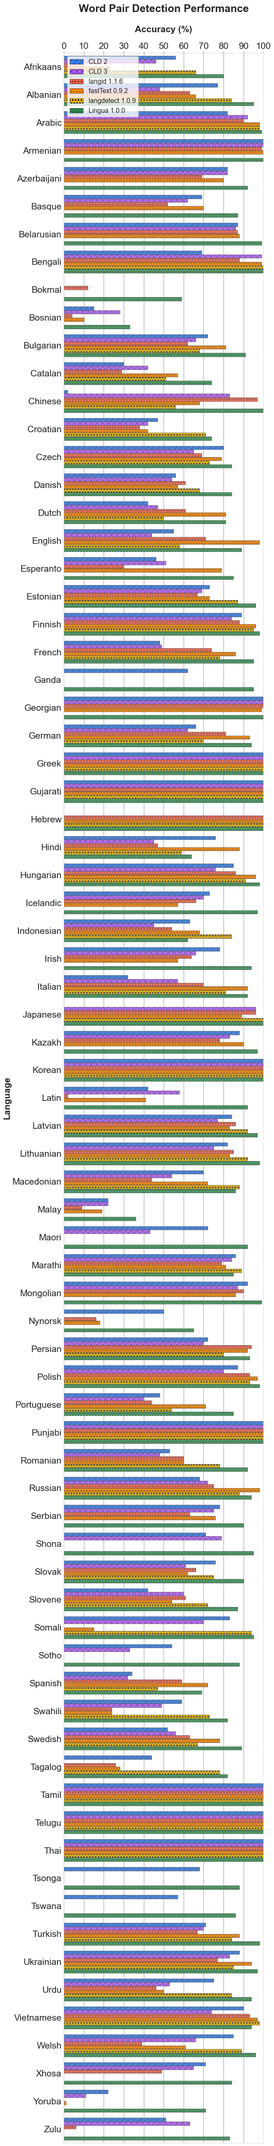
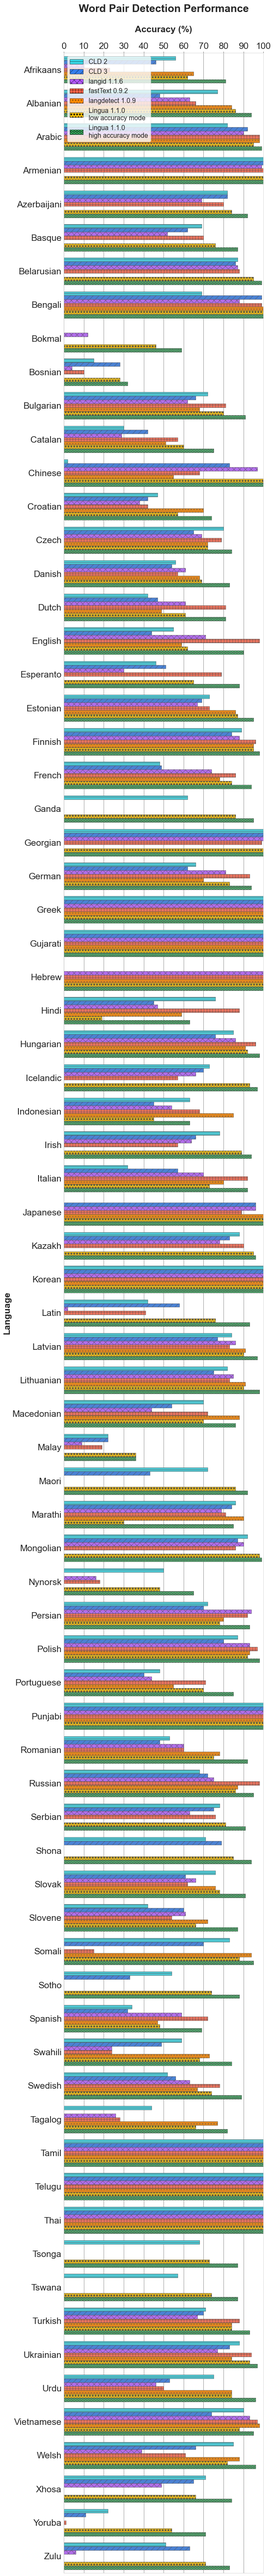
Update plots

diff --git a/scripts/accuracy_plot_drawer.py b/scripts/accuracy_plot_drawer.py
@@ -39,17 +39,34 @@ class AccuracyPlotDrawer:
     _plot_titles = ("Single Word", "Word Pair", "Sentence", "Average")
     _plot_title_suffix = "Detection Performance"
     _column_prefixes = ("single-words", "word-pairs", "sentences", "average")
-    _column_suffixes = ("cld2", "cld3", "langid", "fasttext", "langdetect", "lingua")
+    _column_suffixes = (
+        "cld2",
+        "cld3",
+        "langid",
+        "fasttext",
+        "langdetect",
+        "lingua-low",
+        "lingua-high",
+    )
     _legend_labels = (
         "CLD 2",
         "CLD 3",
         "langid 1.1.6",
         "fastText 0.9.2",
         "langdetect 1.0.9",
-        "Lingua 1.0.0",
+        "Lingua 1.1.0\nlow accuracy mode",
+        "Lingua 1.1.0\nhigh accuracy mode",
     )
-    _hatches = ("/", "x", "+", ".", "*", "O")
-    _palette = ("#347deb", "#b259ff", "#ff6347", "#ff8800", "#ffc400", "#41c46b")
+    _hatches = ("-", "/", "x", "+", ".", "*", "O")
+    _palette = (
+        "#39d7e6",
+        "#347deb",
+        "#b259ff",
+        "#ff6347",
+        "#ff8800",
+        "#ffc400",
+        "#41c46b",
+    )
     _ticks = np.arange(0, 101, 10)
     _legend_handles = [
         Patch(facecolor=color, edgecolor="black", label=label, hatch=hatch)
@@ -91,7 +108,7 @@ class AccuracyPlotDrawer:
         row_filter = self._dataframe[self._hue].isin(columns)
         data = self._dataframe[row_filter]
 
-        plt.figure(figsize=(16, 125))
+        plt.figure(figsize=(16, 150))
         plt.title(
             title + "\n", fontsize=self._title_fontsize, fontweight=self._fontweight
         )
@@ -128,7 +145,7 @@ class AccuracyPlotDrawer:
         row_filter = self._dataframe[self._hue].isin(columns)
         data = self._dataframe[row_filter]
 
-        plt.figure(figsize=(24, 12))
+        plt.figure(figsize=(36, 12))
         plt.title(title, fontsize=self._title_fontsize, fontweight=self._fontweight)
         plt.xticks(fontsize=self._ticks_fontsize)
         plt.yticks(fontsize=self._ticks_fontsize, ticks=self._ticks)
